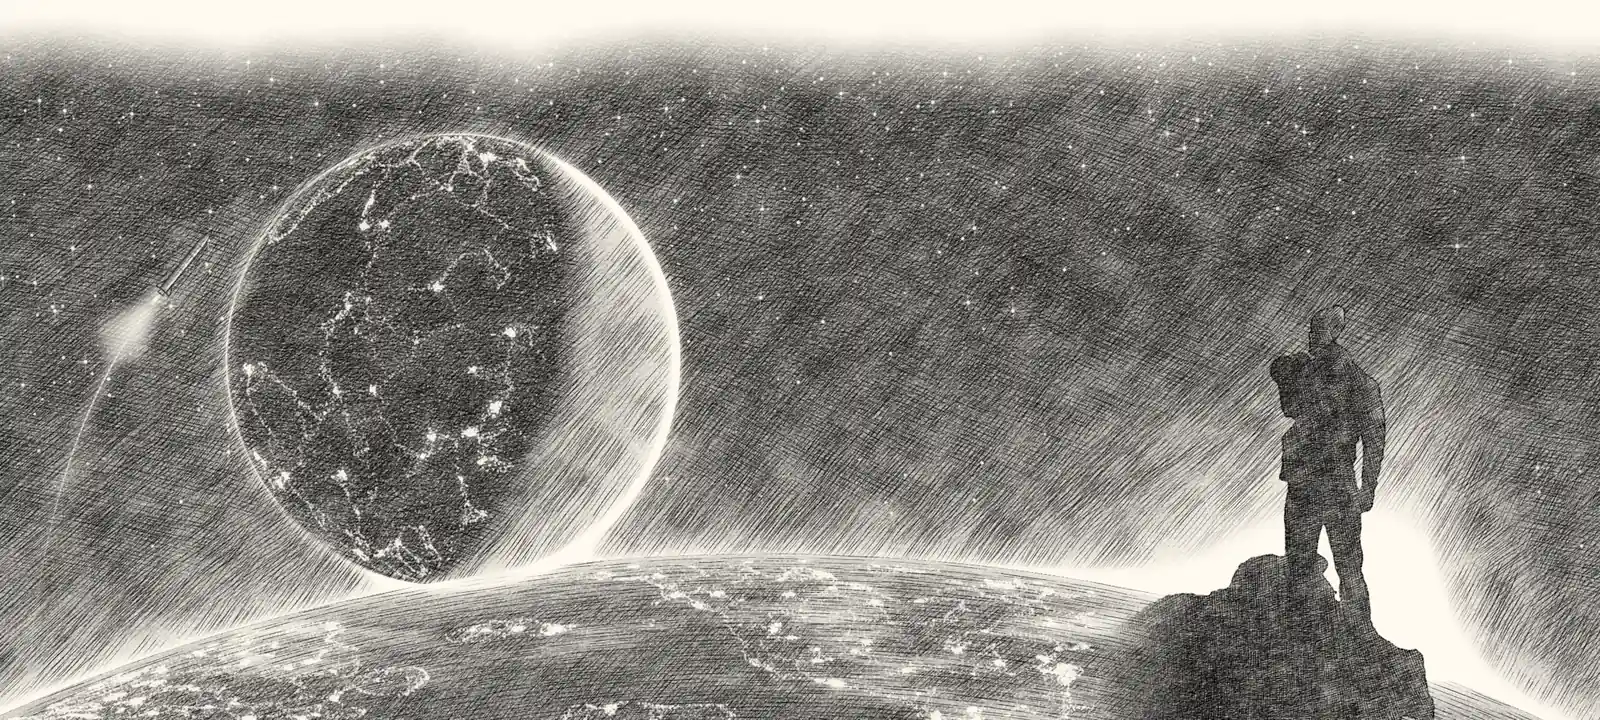
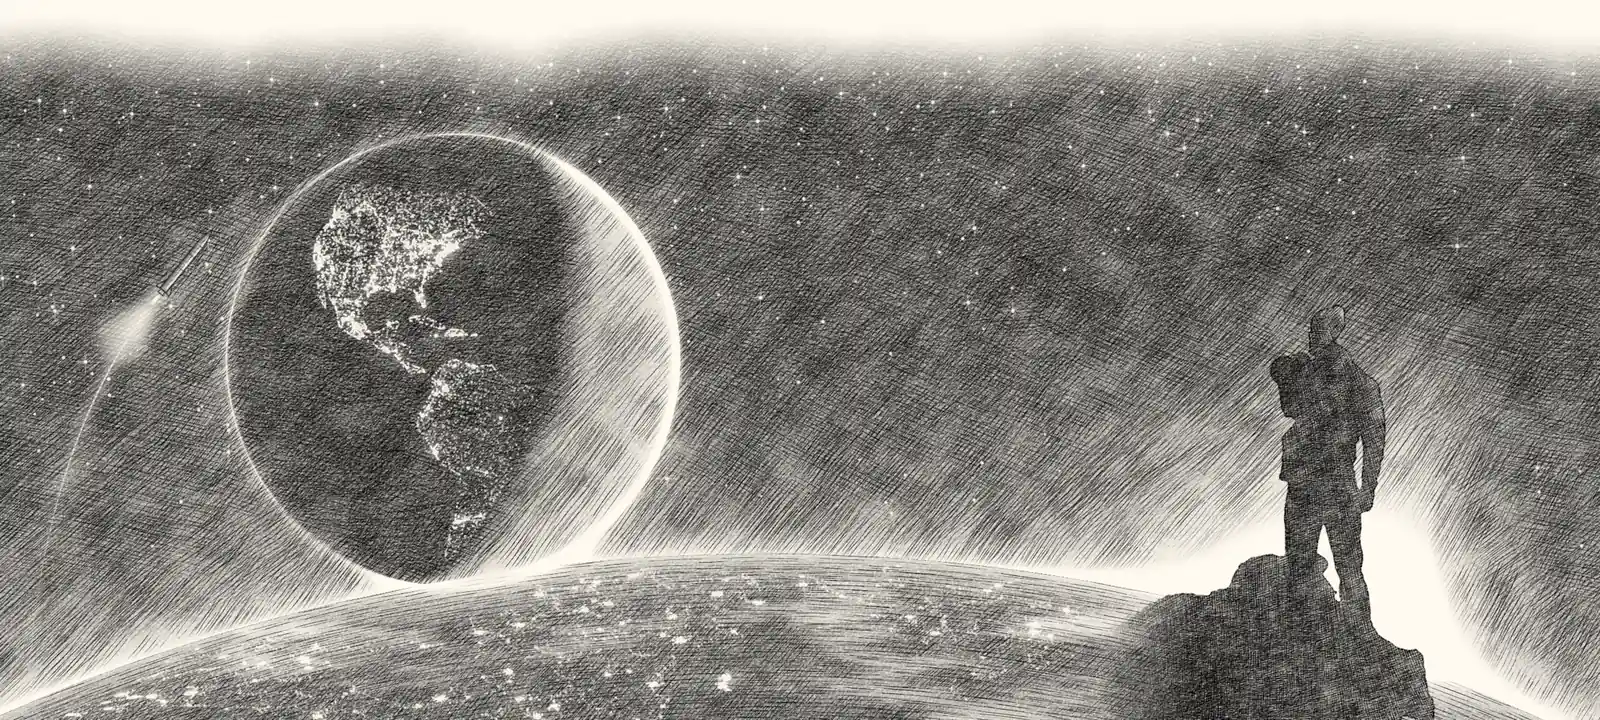
Make the footer's planet the Earth, seen from the Moon
The planet now shows the night lights of the Americas, from real cities
and coastlines in bin/footer-drawing/america.py. The ground the man
stands on becomes the Moon, with settlements of its own instead of
coastlines.

Session: claude://claude.ai/epitaxy/local_8bf3452f-ca40-4c1d-a549-1e6323dcae47

Changed region(s): [[0.0, 0.7639, 0.6875, 1.0], [0.125, 0.1833, 0.375, 0.825]]

diff --git a/ausschnitt.html b/ausschnitt.html
@@ -169,8 +169,8 @@
       <div class="frame">
         <div class="canvas">
           <picture>
-            <source media="(max-width: 767.98px)" srcset="/images/footer/sky-phone.webp?v=cbc97ff4">
-            <img src="/images/footer/sky-1600.webp?v=fd73ed13" srcset="/images/footer/sky-1200.webp?v=c42c5748 1200w, /images/footer/sky-1600.webp?v=fd73ed13 1600w" sizes="100vw" width="2400" height="1080" loading="lazy" decoding="async" alt="Bleistiftzeichnung: Ein Mann steht auf einem Gipfel über der Erde und zeigt auf ein Sternbild">
+            <source media="(max-width: 767.98px)" srcset="/images/footer/sky-phone.webp?v=8da8b12a">
+            <img src="/images/footer/sky-1600.webp?v=1f757129" srcset="/images/footer/sky-1200.webp?v=d42155e7 1200w, /images/footer/sky-1600.webp?v=1f757129 1600w" sizes="100vw" width="2400" height="1080" loading="lazy" decoding="async" alt="Bleistiftzeichnung: Ein Mann steht auf einem Gipfel über der Erde und zeigt auf ein Sternbild">
           </picture>
           <svg viewBox="0 0 2400 1080" aria-label="Fußzeile">
             <defs>

diff --git a/datenschutzerklaerung.html b/datenschutzerklaerung.html
@@ -125,8 +125,8 @@
       <div class="frame">
         <div class="canvas">
           <picture>
-            <source media="(max-width: 767.98px)" srcset="/images/footer/sky-phone.webp?v=cbc97ff4">
-            <img src="/images/footer/sky-1600.webp?v=fd73ed13" srcset="/images/footer/sky-1200.webp?v=c42c5748 1200w, /images/footer/sky-1600.webp?v=fd73ed13 1600w" sizes="100vw" width="2400" height="1080" loading="lazy" decoding="async" alt="Bleistiftzeichnung: Ein Mann steht auf einem Gipfel über der Erde und zeigt auf ein Sternbild">
+            <source media="(max-width: 767.98px)" srcset="/images/footer/sky-phone.webp?v=8da8b12a">
+            <img src="/images/footer/sky-1600.webp?v=1f757129" srcset="/images/footer/sky-1200.webp?v=d42155e7 1200w, /images/footer/sky-1600.webp?v=1f757129 1600w" sizes="100vw" width="2400" height="1080" loading="lazy" decoding="async" alt="Bleistiftzeichnung: Ein Mann steht auf einem Gipfel über der Erde und zeigt auf ein Sternbild">
           </picture>
           <svg viewBox="0 0 2400 1080" aria-label="Fußzeile">
             <defs>

diff --git a/errata.html b/errata.html
@@ -388,8 +388,8 @@
       <div class="frame">
         <div class="canvas">
           <picture>
-            <source media="(max-width: 767.98px)" srcset="/images/footer/sky-phone.webp?v=cbc97ff4">
-            <img src="/images/footer/sky-1600.webp?v=fd73ed13" srcset="/images/footer/sky-1200.webp?v=c42c5748 1200w, /images/footer/sky-1600.webp?v=fd73ed13 1600w" sizes="100vw" width="2400" height="1080" loading="lazy" decoding="async" alt="Bleistiftzeichnung: Ein Mann steht auf einem Gipfel über der Erde und zeigt auf ein Sternbild">
+            <source media="(max-width: 767.98px)" srcset="/images/footer/sky-phone.webp?v=8da8b12a">
+            <img src="/images/footer/sky-1600.webp?v=1f757129" srcset="/images/footer/sky-1200.webp?v=d42155e7 1200w, /images/footer/sky-1600.webp?v=1f757129 1600w" sizes="100vw" width="2400" height="1080" loading="lazy" decoding="async" alt="Bleistiftzeichnung: Ein Mann steht auf einem Gipfel über der Erde und zeigt auf ein Sternbild">
           </picture>
           <svg viewBox="0 0 2400 1080" aria-label="Fußzeile">
             <defs>

diff --git a/glossar.html b/glossar.html
@@ -776,8 +776,8 @@
       <div class="frame">
         <div class="canvas">
           <picture>
-            <source media="(max-width: 767.98px)" srcset="/images/footer/sky-phone.webp?v=cbc97ff4">
-            <img src="/images/footer/sky-1600.webp?v=fd73ed13" srcset="/images/footer/sky-1200.webp?v=c42c5748 1200w, /images/footer/sky-1600.webp?v=fd73ed13 1600w" sizes="100vw" width="2400" height="1080" loading="lazy" decoding="async" alt="Bleistiftzeichnung: Ein Mann steht auf einem Gipfel über der Erde und zeigt auf ein Sternbild">
+            <source media="(max-width: 767.98px)" srcset="/images/footer/sky-phone.webp?v=8da8b12a">
+            <img src="/images/footer/sky-1600.webp?v=1f757129" srcset="/images/footer/sky-1200.webp?v=d42155e7 1200w, /images/footer/sky-1600.webp?v=1f757129 1600w" sizes="100vw" width="2400" height="1080" loading="lazy" decoding="async" alt="Bleistiftzeichnung: Ein Mann steht auf einem Gipfel über der Erde und zeigt auf ein Sternbild">
           </picture>
           <svg viewBox="0 0 2400 1080" aria-label="Fußzeile">
             <defs>

diff --git a/index.html b/index.html
@@ -180,8 +180,8 @@
       <div class="frame">
         <div class="canvas">
           <picture>
-            <source media="(max-width: 767.98px)" srcset="/images/footer/sky-phone.webp?v=cbc97ff4">
-            <img src="/images/footer/sky-1600.webp?v=fd73ed13" srcset="/images/footer/sky-1200.webp?v=c42c5748 1200w, /images/footer/sky-1600.webp?v=fd73ed13 1600w" sizes="100vw" width="2400" height="1080" loading="lazy" decoding="async" alt="Bleistiftzeichnung: Ein Mann steht auf einem Gipfel über der Erde und zeigt auf ein Sternbild">
+            <source media="(max-width: 767.98px)" srcset="/images/footer/sky-phone.webp?v=8da8b12a">
+            <img src="/images/footer/sky-1600.webp?v=1f757129" srcset="/images/footer/sky-1200.webp?v=d42155e7 1200w, /images/footer/sky-1600.webp?v=1f757129 1600w" sizes="100vw" width="2400" height="1080" loading="lazy" decoding="async" alt="Bleistiftzeichnung: Ein Mann steht auf einem Gipfel über der Erde und zeigt auf ein Sternbild">
           </picture>
           <svg viewBox="0 0 2400 1080" aria-label="Fußzeile">
             <defs>

diff --git a/interview.html b/interview.html
@@ -108,8 +108,8 @@
       <div class="frame">
         <div class="canvas">
           <picture>
-            <source media="(max-width: 767.98px)" srcset="/images/footer/sky-phone.webp?v=cbc97ff4">
-            <img src="/images/footer/sky-1600.webp?v=fd73ed13" srcset="/images/footer/sky-1200.webp?v=c42c5748 1200w, /images/footer/sky-1600.webp?v=fd73ed13 1600w" sizes="100vw" width="2400" height="1080" loading="lazy" decoding="async" alt="Bleistiftzeichnung: Ein Mann steht auf einem Gipfel über der Erde und zeigt auf ein Sternbild">
+            <source media="(max-width: 767.98px)" srcset="/images/footer/sky-phone.webp?v=8da8b12a">
+            <img src="/images/footer/sky-1600.webp?v=1f757129" srcset="/images/footer/sky-1200.webp?v=d42155e7 1200w, /images/footer/sky-1600.webp?v=1f757129 1600w" sizes="100vw" width="2400" height="1080" loading="lazy" decoding="async" alt="Bleistiftzeichnung: Ein Mann steht auf einem Gipfel über der Erde und zeigt auf ein Sternbild">
           </picture>
           <svg viewBox="0 0 2400 1080" aria-label="Fußzeile">
             <defs>

diff --git a/kaufen.html b/kaufen.html
@@ -114,8 +114,8 @@
       <div class="frame">
         <div class="canvas">
           <picture>
-            <source media="(max-width: 767.98px)" srcset="/images/footer/sky-phone.webp?v=cbc97ff4">
-            <img src="/images/footer/sky-1600.webp?v=fd73ed13" srcset="/images/footer/sky-1200.webp?v=c42c5748 1200w, /images/footer/sky-1600.webp?v=fd73ed13 1600w" sizes="100vw" width="2400" height="1080" loading="lazy" decoding="async" alt="Bleistiftzeichnung: Ein Mann steht auf einem Gipfel über der Erde und zeigt auf ein Sternbild">
+            <source media="(max-width: 767.98px)" srcset="/images/footer/sky-phone.webp?v=8da8b12a">
+            <img src="/images/footer/sky-1600.webp?v=1f757129" srcset="/images/footer/sky-1200.webp?v=d42155e7 1200w, /images/footer/sky-1600.webp?v=1f757129 1600w" sizes="100vw" width="2400" height="1080" loading="lazy" decoding="async" alt="Bleistiftzeichnung: Ein Mann steht auf einem Gipfel über der Erde und zeigt auf ein Sternbild">
           </picture>
           <svg viewBox="0 0 2400 1080" aria-label="Fußzeile">
             <defs>

diff --git a/leserstimmen.html b/leserstimmen.html
@@ -166,8 +166,8 @@
       <div class="frame">
         <div class="canvas">
           <picture>
-            <source media="(max-width: 767.98px)" srcset="/images/footer/sky-phone.webp?v=cbc97ff4">
-            <img src="/images/footer/sky-1600.webp?v=fd73ed13" srcset="/images/footer/sky-1200.webp?v=c42c5748 1200w, /images/footer/sky-1600.webp?v=fd73ed13 1600w" sizes="100vw" width="2400" height="1080" loading="lazy" decoding="async" alt="Bleistiftzeichnung: Ein Mann steht auf einem Gipfel über der Erde und zeigt auf ein Sternbild">
+            <source media="(max-width: 767.98px)" srcset="/images/footer/sky-phone.webp?v=8da8b12a">
+            <img src="/images/footer/sky-1600.webp?v=1f757129" srcset="/images/footer/sky-1200.webp?v=d42155e7 1200w, /images/footer/sky-1600.webp?v=1f757129 1600w" sizes="100vw" width="2400" height="1080" loading="lazy" decoding="async" alt="Bleistiftzeichnung: Ein Mann steht auf einem Gipfel über der Erde und zeigt auf ein Sternbild">
           </picture>
           <svg viewBox="0 0 2400 1080" aria-label="Fußzeile">
             <defs>

diff --git a/mehr.html b/mehr.html
@@ -397,8 +397,8 @@
       <div class="frame">
         <div class="canvas">
           <picture>
-            <source media="(max-width: 767.98px)" srcset="/images/footer/sky-phone.webp?v=cbc97ff4">
-            <img src="/images/footer/sky-1600.webp?v=fd73ed13" srcset="/images/footer/sky-1200.webp?v=c42c5748 1200w, /images/footer/sky-1600.webp?v=fd73ed13 1600w" sizes="100vw" width="2400" height="1080" loading="lazy" decoding="async" alt="Bleistiftzeichnung: Ein Mann steht auf einem Gipfel über der Erde und zeigt auf ein Sternbild">
+            <source media="(max-width: 767.98px)" srcset="/images/footer/sky-phone.webp?v=8da8b12a">
+            <img src="/images/footer/sky-1600.webp?v=1f757129" srcset="/images/footer/sky-1200.webp?v=d42155e7 1200w, /images/footer/sky-1600.webp?v=1f757129 1600w" sizes="100vw" width="2400" height="1080" loading="lazy" decoding="async" alt="Bleistiftzeichnung: Ein Mann steht auf einem Gipfel über der Erde und zeigt auf ein Sternbild">
           </picture>
           <svg viewBox="0 0 2400 1080" aria-label="Fußzeile">
             <defs>

diff --git a/pressestimmen.html b/pressestimmen.html
@@ -206,8 +206,8 @@
       <div class="frame">
         <div class="canvas">
           <picture>
-            <source media="(max-width: 767.98px)" srcset="/images/footer/sky-phone.webp?v=cbc97ff4">
-            <img src="/images/footer/sky-1600.webp?v=fd73ed13" srcset="/images/footer/sky-1200.webp?v=c42c5748 1200w, /images/footer/sky-1600.webp?v=fd73ed13 1600w" sizes="100vw" width="2400" height="1080" loading="lazy" decoding="async" alt="Bleistiftzeichnung: Ein Mann steht auf einem Gipfel über der Erde und zeigt auf ein Sternbild">
+            <source media="(max-width: 767.98px)" srcset="/images/footer/sky-phone.webp?v=8da8b12a">
+            <img src="/images/footer/sky-1600.webp?v=1f757129" srcset="/images/footer/sky-1200.webp?v=d42155e7 1200w, /images/footer/sky-1600.webp?v=1f757129 1600w" sizes="100vw" width="2400" height="1080" loading="lazy" decoding="async" alt="Bleistiftzeichnung: Ein Mann steht auf einem Gipfel über der Erde und zeigt auf ein Sternbild">
           </picture>
           <svg viewBox="0 0 2400 1080" aria-label="Fußzeile">
             <defs>

diff --git a/sokrates.html b/sokrates.html
@@ -108,8 +108,8 @@
       <div class="frame">
         <div class="canvas">
           <picture>
-            <source media="(max-width: 767.98px)" srcset="/images/footer/sky-phone.webp?v=cbc97ff4">
-            <img src="/images/footer/sky-1600.webp?v=fd73ed13" srcset="/images/footer/sky-1200.webp?v=c42c5748 1200w, /images/footer/sky-1600.webp?v=fd73ed13 1600w" sizes="100vw" width="2400" height="1080" loading="lazy" decoding="async" alt="Bleistiftzeichnung: Ein Mann steht auf einem Gipfel über der Erde und zeigt auf ein Sternbild">
+            <source media="(max-width: 767.98px)" srcset="/images/footer/sky-phone.webp?v=8da8b12a">
+            <img src="/images/footer/sky-1600.webp?v=1f757129" srcset="/images/footer/sky-1200.webp?v=d42155e7 1200w, /images/footer/sky-1600.webp?v=1f757129 1600w" sizes="100vw" width="2400" height="1080" loading="lazy" decoding="async" alt="Bleistiftzeichnung: Ein Mann steht auf einem Gipfel über der Erde und zeigt auf ein Sternbild">
           </picture>
           <svg viewBox="0 0 2400 1080" aria-label="Fußzeile">
             <defs>

diff --git a/wilhelm-busch.html b/wilhelm-busch.html
@@ -116,8 +116,8 @@
       <div class="frame">
         <div class="canvas">
           <picture>
-            <source media="(max-width: 767.98px)" srcset="/images/footer/sky-phone.webp?v=cbc97ff4">
-            <img src="/images/footer/sky-1600.webp?v=fd73ed13" srcset="/images/footer/sky-1200.webp?v=c42c5748 1200w, /images/footer/sky-1600.webp?v=fd73ed13 1600w" sizes="100vw" width="2400" height="1080" loading="lazy" decoding="async" alt="Bleistiftzeichnung: Ein Mann steht auf einem Gipfel über der Erde und zeigt auf ein Sternbild">
+            <source media="(max-width: 767.98px)" srcset="/images/footer/sky-phone.webp?v=8da8b12a">
+            <img src="/images/footer/sky-1600.webp?v=1f757129" srcset="/images/footer/sky-1200.webp?v=d42155e7 1200w, /images/footer/sky-1600.webp?v=1f757129 1600w" sizes="100vw" width="2400" height="1080" loading="lazy" decoding="async" alt="Bleistiftzeichnung: Ein Mann steht auf einem Gipfel über der Erde und zeigt auf ein Sternbild">
           </picture>
           <svg viewBox="0 0 2400 1080" aria-label="Fußzeile">
             <defs>
